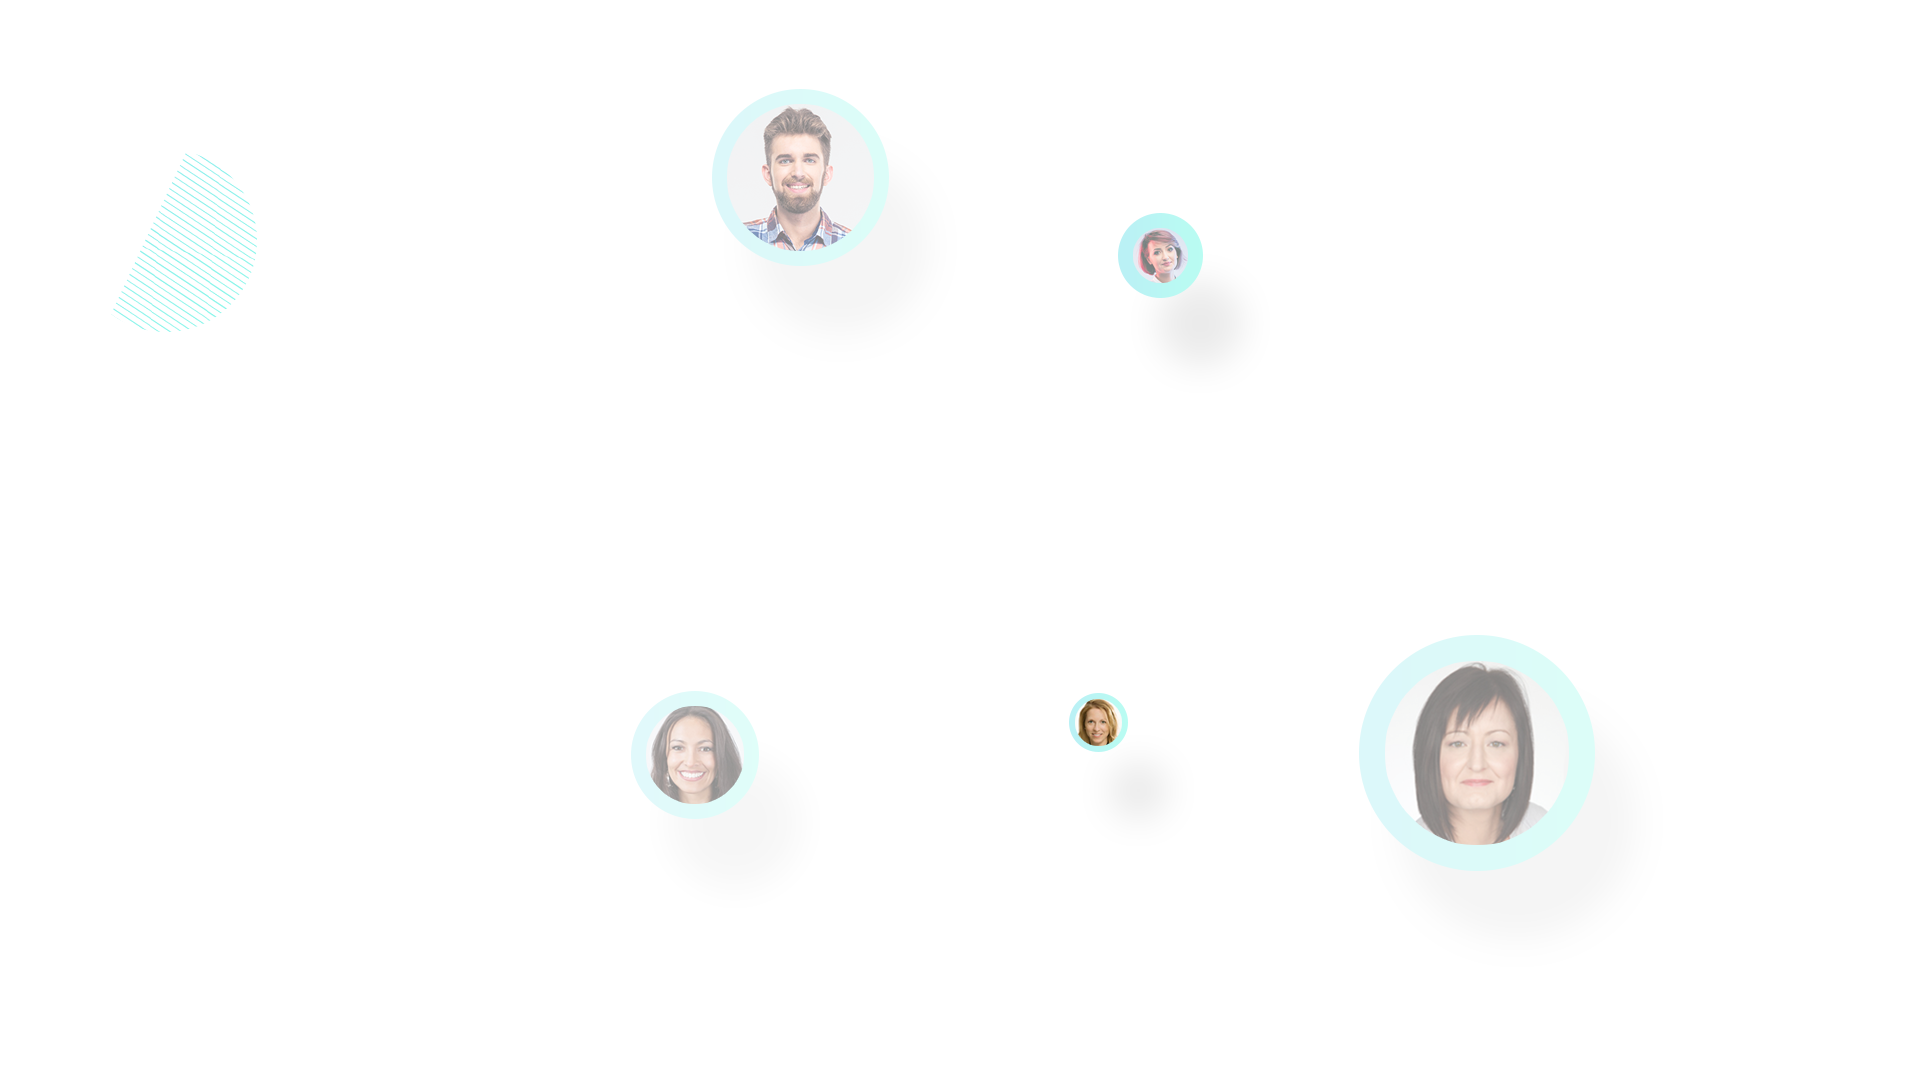
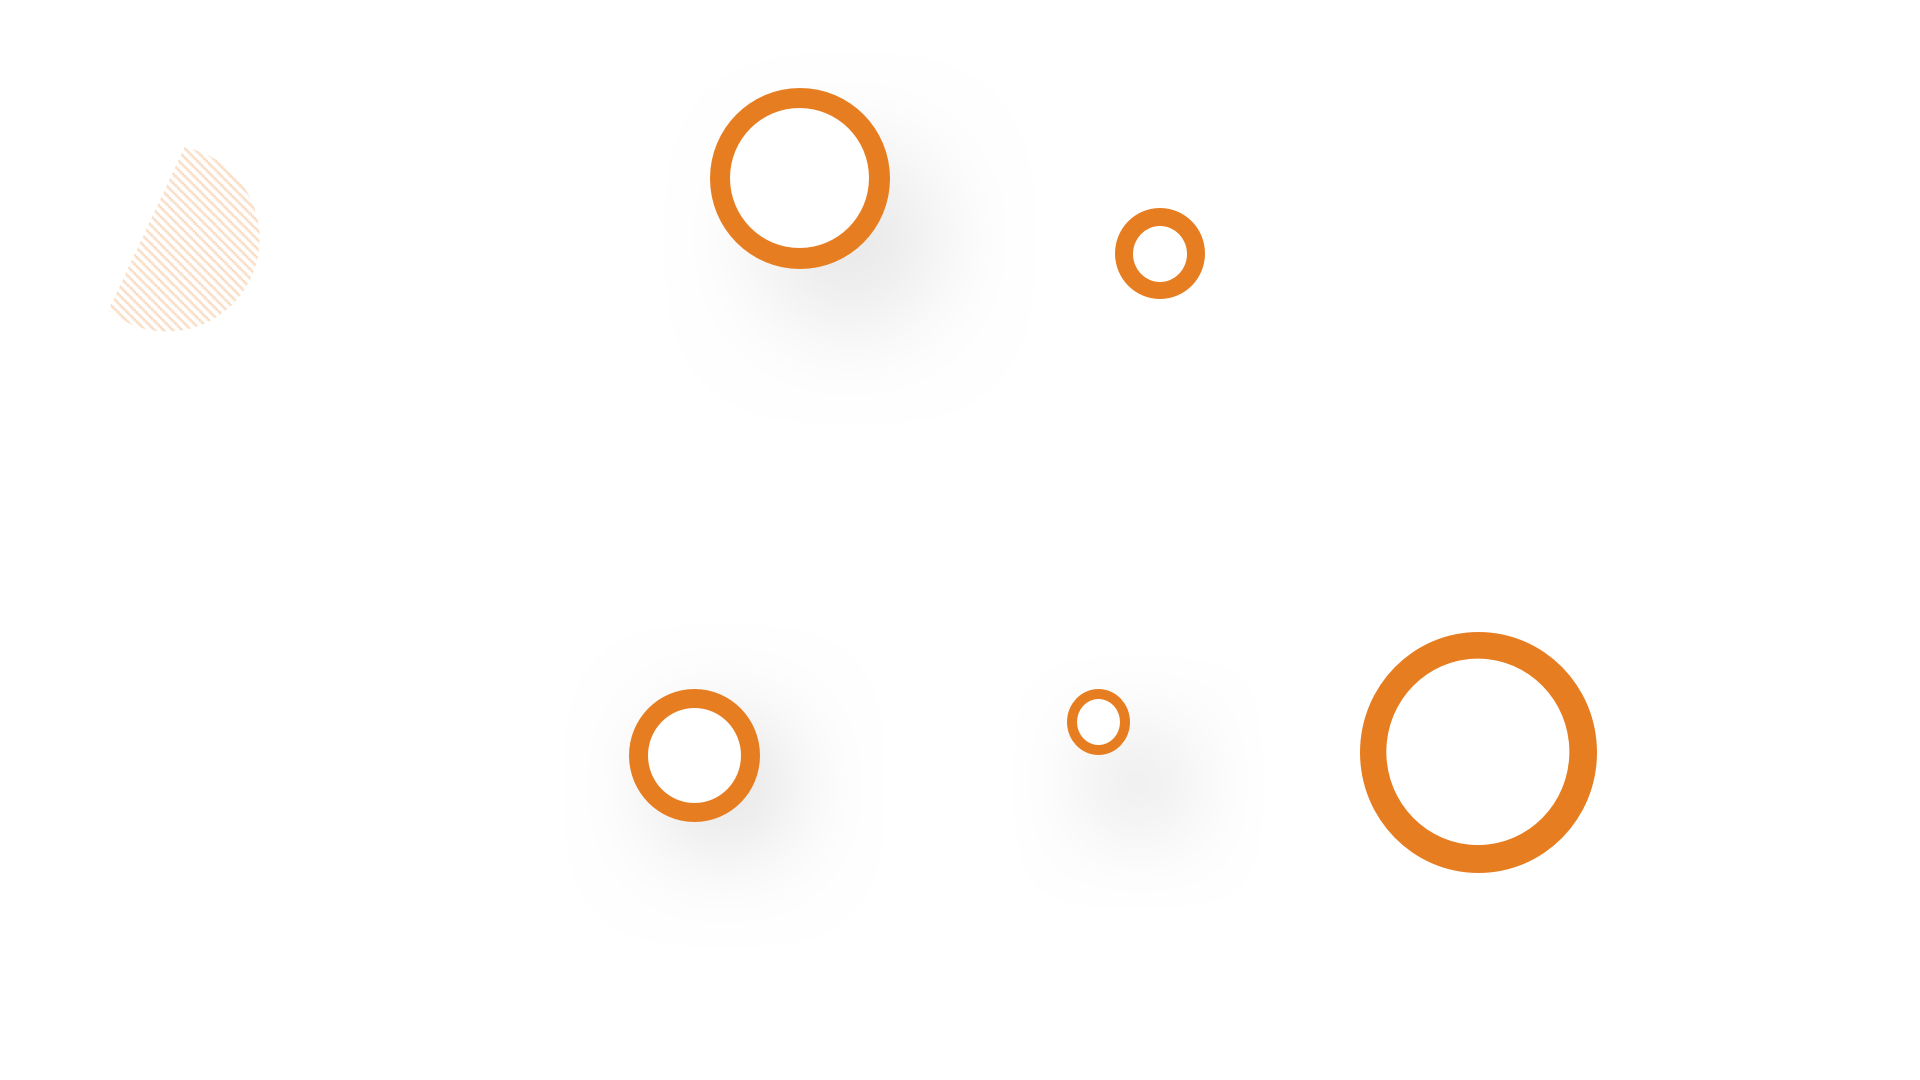
LS-1057 - party page in place.

diff --git a/src/app/landing/celebration/party.component.html b/src/app/landing/celebration/party.component.html
@@ -1,0 +1,46 @@
+<ng-container *ngIf="isLoggedIn">
+
+    <app-list-shop-header></app-list-shop-header>
+</ng-container>
+<ng-container *ngIf="!isLoggedIn">
+    <app-content-header></app-content-header>
+</ng-container>
+<!-- blog Section Start -->
+<section class="party ">
+    <div class="about-decor">
+        <div class="about-circle1"><img src="../../../../assets/images/team1.png" alt="team1"></div>
+        <div class="about-circle2"><img src="../../../../assets/images/main-banner1.png" alt=""></div>
+    </div>
+    <div class="container party-top-spacing ">
+        <div class="row beta-extra-top">
+            <div class="col-12">
+
+                <div class="party-text-box">
+
+                    <h3>We're Celebrating!!</h3>
+                    <p>text text text</p>
+                </div>
+
+            </div>
+        </div>
+
+    </div>
+</section>
+<!-- blog Section End -->
+
+<app-modal #notification [autoHide]="3500">
+    <div class="app-modal-body padding-instructions">
+        <h2>Will Do!</h2>
+        <div>We'll send you an email when the app is released.</div>
+
+    </div>
+</app-modal>
+
+<app-modal #testemailsent [autoHide]="3500">
+    <div class="app-modal-body padding-instructions">
+        <h2>Great, Thanks!</h2>
+        <div>We've sent you an email with testing instructions.</div>
+    </div>
+</app-modal>
+<!-- #e67d21 -->
+<ngx-spinner bdColor = "rgba(0,0,0,0.3)" size = "medium" color = "white" type = "ball-spin-fade-rotating" [fullScreen] = "true"><p style="color: white" > Processing... </p></ngx-spinner>

diff --git a/src/app/landing/home-routing.module.ts b/src/app/landing/home-routing.module.ts
@@ -7,6 +7,8 @@ import {PrivacyComponent} from "./privacy/privacy.component";
 import {BetaTestComponent} from "./beta-test/beta-test.component";
 import {AuthGuardHandler} from "../shared/handlers/auth-guard-handler";
 import {AnonymousBetaTestComponent} from "./anonymous-beta-test/anonymous-beta-test.component";
+import {PartyComponent} from "./celebration/party.component";
+import {PartyGuardHandler} from "../shared/handlers/party-guard-handler";
 
 // Routes
 const routes: Routes = [
@@ -17,6 +19,15 @@ const routes: Routes = [
             title: 'The List Shop',
             content: 'Your shopping mealPlans - quickly'
         },
+    },
+    {
+        path: 'celebration',
+        component: PartyComponent,
+        data: {
+            title: 'The List Shop',
+            content: 'Celebrate with us!'
+        },
+        canActivate: [PartyGuardHandler]
     },
     {
         path: 'aboutme',

diff --git a/src/app/landing/celebration/party.component.scss b/src/app/landing/celebration/party.component.scss
@@ -1,0 +1,37 @@
+@import '../../../assets/scss/variable';
+
+.party {
+  background-image: url('../../../assets/images/testimonial-bg.png');
+  background-repeat: no-repeat;
+  background-size: auto;
+  background-position-y: 200px;
+
+  .party-top-spacing {
+    margin-top: 100px;
+  }
+  .about-decor {
+    .about-circle1 {
+      left: 100px;
+    }
+    .about-circle2 {
+      left: 100px;
+    }
+  }
+}
+
+.party-text-box {
+  text-align: center;
+  box-shadow: 0 0 65px 0 rgba(170, 170, 170, 0.25);
+  background-color: white;
+  padding-top: 60px;
+  padding-left: 40px;
+  padding-right: 40px;
+  padding-bottom: 40px;
+  margin-bottom: 100px;
+
+  h3 {
+    color: $color_basic_orange;
+    margin-top: 0px;
+  }
+}
+

diff --git a/src/app/shared/handlers/party-guard-handler.ts b/src/app/shared/handlers/party-guard-handler.ts
@@ -1,0 +1,19 @@
+import {Injectable} from "@angular/core";
+import {AuthenticationService} from "../services/authentication.service";
+import {ActivatedRouteSnapshot, CanActivate, Router, RouterStateSnapshot} from "@angular/router";
+import {CelebrationService} from "../services/celebration.service";
+
+@Injectable({providedIn: "root"})
+export class PartyGuardHandler implements CanActivate {
+
+  constructor(public celebrationService: CelebrationService, public router: Router) {
+  }
+
+  canActivate(route: ActivatedRouteSnapshot, state: RouterStateSnapshot): boolean {
+    if (!this.celebrationService.weAreCelebrating()) {
+      this.router.navigate(['/home']);
+      return false;
+    }
+    return true;
+  }
+}

diff --git a/src/app/app.module.ts b/src/app/app.module.ts
@@ -17,6 +17,7 @@ import {AuthGuardHandler} from "./shared/handlers/auth-guard-handler";
 import {LoggerModule, NgxLoggerLevel} from 'ngx-logger';
 import {AlertService} from "./shared/services/alert.service";
 import {NgxSpinnerModule} from "ngx-spinner";
+import {PartyGuardHandler} from "./shared/handlers/party-guard-handler";
 
 
 @NgModule({
@@ -52,7 +53,8 @@ import {NgxSpinnerModule} from "ngx-spinner";
         AlertService,
         {provide: HTTP_INTERCEPTORS, useClass: ListShopTokenInterceptor, multi: true},
         {provide: ErrorHandler, useClass: ListShopErrorHandler},
-        AuthGuardHandler
+        AuthGuardHandler,
+        PartyGuardHandler
     ],
     bootstrap: [AppComponent]
 })

diff --git a/src/app/landing/home.module.ts b/src/app/landing/home.module.ts
@@ -18,6 +18,7 @@ import {PrivacyComponent} from "./privacy/privacy.component";
 import {BetaTestComponent} from "./beta-test/beta-test.component";
 import {AnonymousBetaTestComponent} from "./anonymous-beta-test/anonymous-beta-test.component";
 import {NgxSpinnerModule} from "ngx-spinner";
+import { PartyComponent } from './celebration/party.component';
 
 @NgModule({
     imports: [
@@ -41,7 +42,8 @@ import {NgxSpinnerModule} from "ngx-spinner";
     FeatureComponent,
     TestimonialComponent,
     BetaTestComponent,
-    AnonymousBetaTestComponent
+    AnonymousBetaTestComponent,
+    PartyComponent
   ],
   providers: []
 })

diff --git a/src/app/landing/contentheader/content-header.component.html b/src/app/landing/contentheader/content-header.component.html
@@ -26,7 +26,7 @@
           <a class="nav-link" [routerLink]="'/lists/manage'">my lists</a>
         </li>
         <li class="nav-item party"  >
-          <a *appMyIsParty class="nav-link " [routerLink]="'/lists/manage'">we're celebrating!</a>
+          <a *appMyIsParty class="nav-link " [routerLink]="'/home/celebration'">we're celebrating!</a>
         </li>
         <div *ngIf="!isLoggedIn" ngbDropdown class="nav-item dropdown">
           <button class="btn bg-transparent nav-link dropdown-toggle" id="dropdownMenuButton" ngbDropdownToggle>Login</button>

diff --git a/src/app/shared/header/header.component.html b/src/app/shared/header/header.component.html
@@ -30,7 +30,7 @@
           <a class="nav-link" [routerLink]="'/lists/manage'">my lists</a>
         </li>
         <li class="nav-item party"  >
-          <a *appMyIsParty class="nav-link " [routerLink]="'/lists/manage'">we're celebrating!</a>
+          <a *appMyIsParty class="nav-link " [routerLink]="'/home/celebration'">we're celebrating!</a>
         </li>
         <div *ngIf="!isLoggedIn" ngbDropdown class="nav-item dropdown">
           <button class="btn connect-button dropdown-toggle" id="dropdownMenuButton" ngbDropdownToggle>connect</button>

diff --git a/src/app/shared/components/list-shop-header/list-shop-header.component.html b/src/app/shared/components/list-shop-header/list-shop-header.component.html
@@ -23,7 +23,7 @@
                     <a class="nav-link" [routerLink]="'/lists/manage'">List</a>
                 </li>
                 <li class="nav-item nav-text-align party"  >
-                    <a *appMyIsParty class="nav-link " [routerLink]="'/lists/manage'">we're celebrating!</a>
+                    <a *appMyIsParty class="nav-link " [routerLink]="'/home/celebration'">we're celebrating!</a>
                 </li>
                 <div id="forcemenu" ngbDropdown class="nav-item dropdown">
                     <a class="nav-link">

diff --git a/src/app/landing/celebration/party.component.ts b/src/app/landing/celebration/party.component.ts
@@ -1,0 +1,18 @@
+import { Component, OnInit } from '@angular/core';
+import {AuthenticationService} from "../../shared/services/authentication.service";
+
+@Component({
+  selector: 'app-party',
+  templateUrl: './party.component.html',
+  styleUrls: ['./party.component.scss']
+})
+export class PartyComponent implements OnInit {
+  public isLoggedIn: boolean;
+
+  constructor(private authorizationService : AuthenticationService) { }
+
+  ngOnInit(): void {
+    this.isLoggedIn = this.authorizationService.isAuthenticated();
+  }
+
+}
